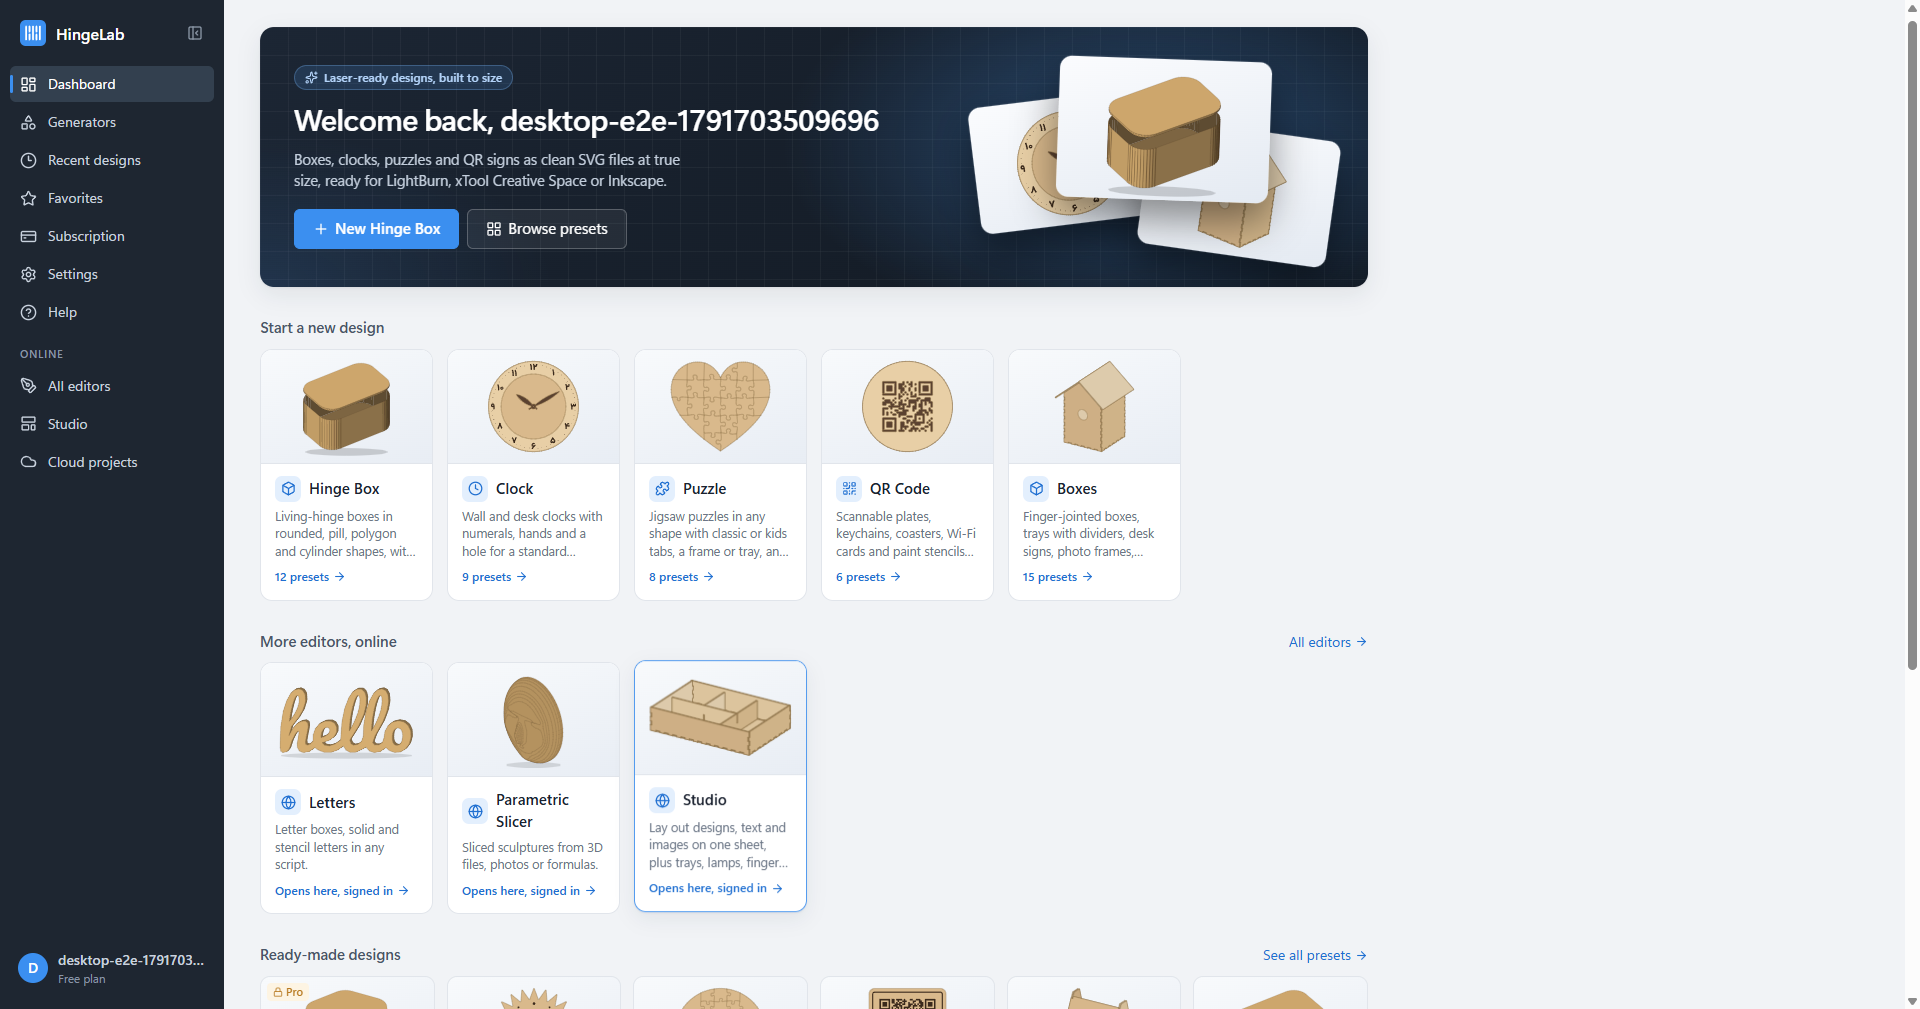
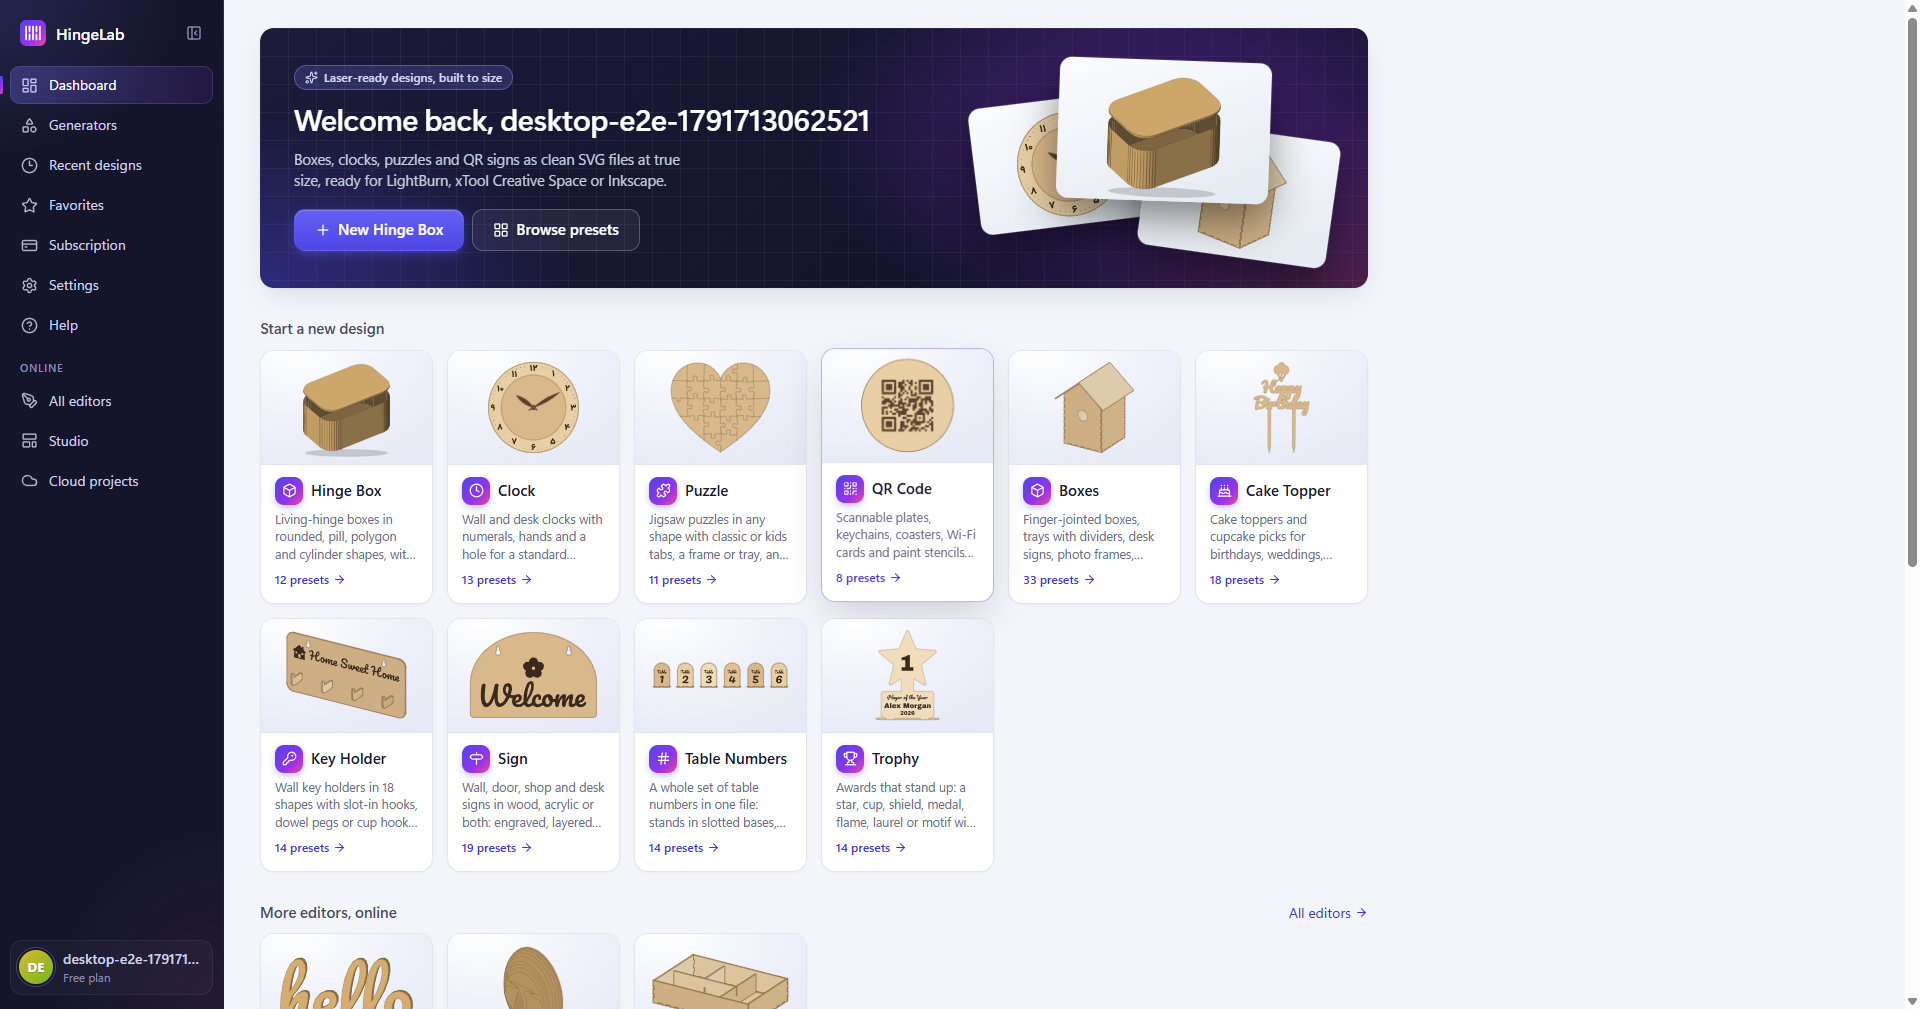
Phase 7 gate: budgets for the new generators, Sign blurb no longer matches the Letters tile, refreshed desktop screenshots

diff --git a/lib/generators/ids.ts b/lib/generators/ids.ts
@@ -20,7 +20,7 @@ export const GENERATOR_INFO: Record<GeneratorId, GeneratorInfo> = {
   boxes: { name: "Boxes", blurb: "Finger-jointed boxes, trays with dividers, desk signs, photo frames, phone stands, key holders and bird houses.", icon: "box", storageKey: "hingelab-gen-boxes-v1" },
   topper: { name: "Cake Topper", blurb: "Cake toppers and cupcake picks for birthdays, weddings, Nowruz, Eid and more: welded script, mirror layers and 39 motifs.", icon: "cake", storageKey: "hingelab-gen-topper-v1" },
   keyrack: { name: "Key Holder", blurb: "Wall key holders in 18 shapes with slot-in hooks, dowel pegs or cup hooks, names above each hook and an optional shelf.", icon: "key", storageKey: "hingelab-gen-keyrack-v1" },
-  sign: { name: "Sign", blurb: "Wall, door, shop and desk signs in wood, acrylic or both: engraved, layered letters, cut-out words, flush inlays, neon-look acrylic or paint stencils, with frames and stands.", icon: "sign", storageKey: "hingelab-gen-sign-v1" },
+  sign: { name: "Sign", blurb: "Wall, door, shop and desk signs in wood, acrylic or both: engraved, layered lettering, cut-out words, flush inlays, neon-look acrylic or paint stencils, with frames and stands.", icon: "sign", storageKey: "hingelab-gen-sign-v1" },
   tablenum: { name: "Table Numbers", blurb: "A whole set of table numbers in one file: stands in slotted bases, living-hinge tent cards or plaques, with labels, names and Persian digits.", icon: "hash", storageKey: "hingelab-gen-tablenum-v1" },
   trophy: { name: "Trophy", blurb: "Awards that stand up: a star, cup, shield, medal, flame, laurel or motif with a name plate, slotted into a stepped base in wood, acrylic or both.", icon: "trophy", storageKey: "hingelab-gen-trophy-v1" },
 };
